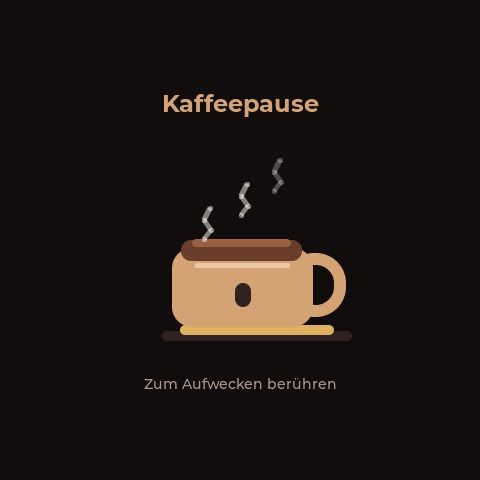
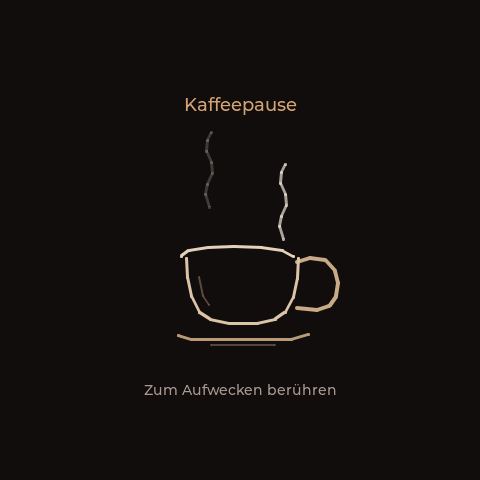
test(ui): format and capture refined steaming cup

diff --git a/firmware/components/ui/src/standby.cpp b/firmware/components/ui/src/standby.cpp
@@ -25,21 +25,27 @@ static lv_point_precise_t kCupRim[] = {
     {91, 186}, {99, 180}, {118, 177}, {144, 176}, {171, 177}, {192, 180}, {203, 186},
 };
 static lv_point_precise_t kCupBody[] = {
-    {96, 188}, {97, 207}, {101, 226}, {109, 242}, {120, 249}, {139, 253},
+    {96, 188},  {97, 207},  {101, 226}, {109, 242}, {120, 249}, {139, 253},
     {167, 253}, {185, 249}, {195, 242}, {203, 227}, {207, 208}, {208, 188},
 };
 static lv_point_precise_t kCupHighlight[] = {
-    {109, 207}, {113, 226}, {119, 235},
+    {109, 207},
+    {113, 226},
+    {119, 235},
 };
 static lv_point_precise_t kHandleOuter[] = {
     {207, 192}, {220, 188}, {235, 190}, {245, 201}, {248, 213},
     {246, 226}, {239, 236}, {227, 240}, {207, 238},
 };
 static lv_point_precise_t kSaucer[] = {
-    {88, 265}, {101, 269}, {201, 269}, {218, 264},
+    {88, 265},
+    {101, 269},
+    {201, 269},
+    {218, 264},
 };
 static lv_point_precise_t kSaucerHighlight[] = {
-    {121, 275}, {185, 275},
+    {121, 275},
+    {185, 275},
 };
 
 lv_obj_t* stroke(lv_obj_t* parent, lv_point_precise_t* points, uint32_t count, uint32_t color,
@@ -74,9 +80,8 @@ void UiAppImpl::build_standby() {
     lv_obj_set_clickable(scene, false);
     lv_obj_set_scrollable(scene, false);
 
-    lv_obj_t* title =
-        theme::make_label(scene, strings::STANDBY_TITLE, theme::font_body(),
-                          theme::color(theme::COLOR_ACCENT));
+    lv_obj_t* title = theme::make_label(scene, strings::STANDBY_TITLE, theme::font_body(),
+                                        theme::color(theme::COLOR_ACCENT));
     lv_obj_align(title, LV_ALIGN_TOP_MID, 0, 24);
 
     // Restrained line-art porcelain: no chunky solid rectangle for the cup.
@@ -92,9 +97,8 @@ void UiAppImpl::build_standby() {
         steam_[i] = stroke(scene, kSteamPath, 8, 0xE9DFD1, 3, LV_OPA_TRANSP);
     }
 
-    lv_obj_t* hint =
-        theme::make_label(scene, strings::STANDBY_TOUCH_HINT, theme::font_small(),
-                          theme::color(theme::COLOR_MUTED));
+    lv_obj_t* hint = theme::make_label(scene, strings::STANDBY_TOUCH_HINT, theme::font_small(),
+                                       theme::color(theme::COLOR_MUTED));
     lv_obj_align(hint, LV_ALIGN_BOTTOM_MID, 0, -12);
 
     standby_timer_ = lv_timer_create(&UiAppImpl::standby_anim_cb, kSteamFrameMs, this);
@@ -158,19 +162,17 @@ void UiAppImpl::animate_standby() {
         } else if (phase < 30U) {
             opacity = static_cast<lv_opa_t>(kSteamPeakOpacity);
         } else if (phase < kSteamVisibleFrames) {
-            opacity = static_cast<lv_opa_t>(
-                (kSteamVisibleFrames - phase) * kSteamPeakOpacity /
-                (kSteamVisibleFrames - 30U));
+            opacity = static_cast<lv_opa_t>((kSteamVisibleFrames - phase) * kSteamPeakOpacity /
+                                            (kSteamVisibleFrames - 30U));
         }
 
         // Each strand rises ~56px and drifts side-to-side by only 3px.
         // Gradual opacity makes the start/end blend into the dark background.
-        const int rise = static_cast<int>(
-            (phase < kSteamVisibleFrames ? phase : kSteamVisibleFrames) * 56U /
-            kSteamVisibleFrames);
+        const int rise =
+            static_cast<int>((phase < kSteamVisibleFrames ? phase : kSteamVisibleFrames) * 56U /
+                             kSteamVisibleFrames);
         const int wobble_phase = static_cast<int>(phase % 32U);
-        const int wobble = wobble_phase < 16 ? wobble_phase / 5 - 2
-                                             : (32 - wobble_phase) / 5 - 2;
+        const int wobble = wobble_phase < 16 ? wobble_phase / 5 - 2 : (32 - wobble_phase) / 5 - 2;
         lv_obj_set_pos(steam_[i], 108 + static_cast<int>(i) * 36 + wobble, 107 - rise);
         lv_obj_set_style_line_opa(steam_[i], opacity, 0);
     }
